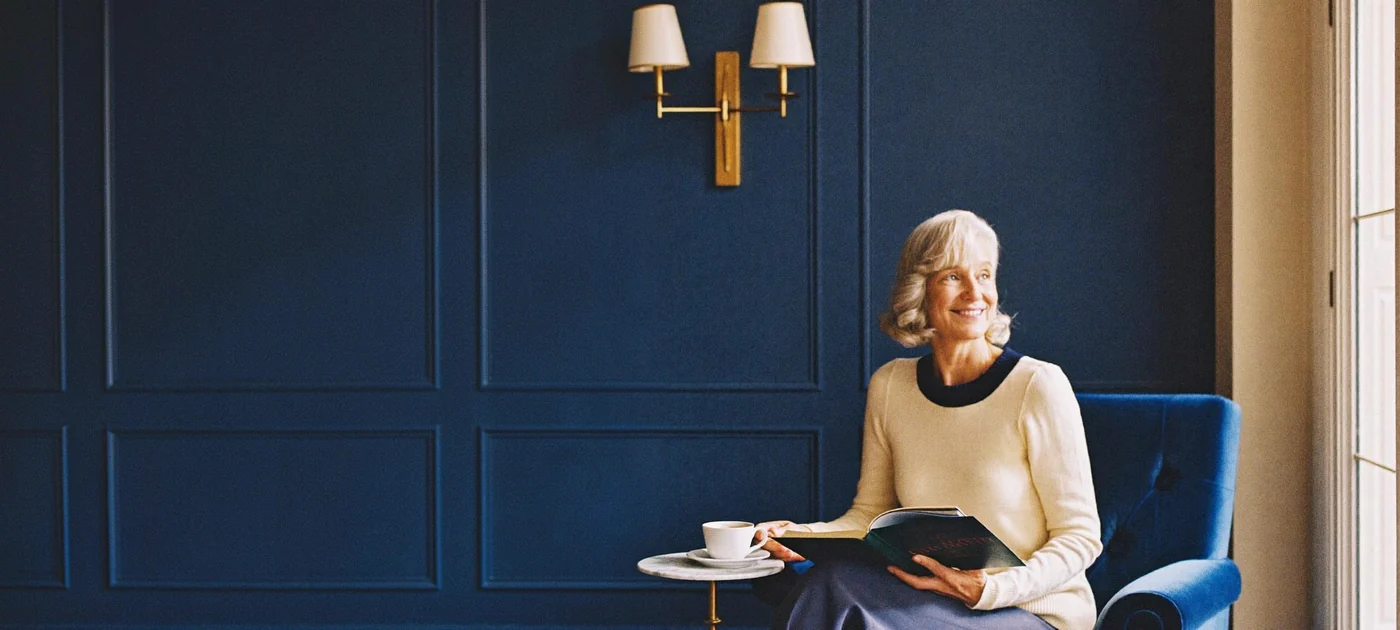
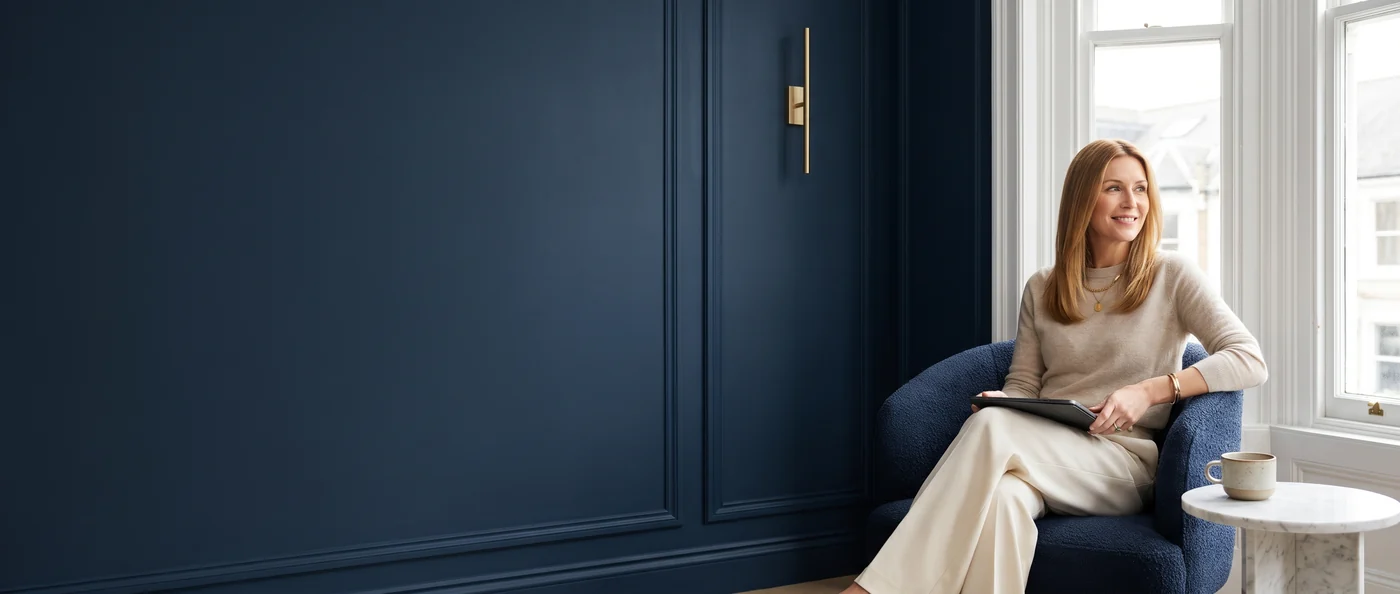
Blog hero: modern, crisp photograph; stronger header shade over bright heroes
Claude-Session: https://claude.ai/code/session_019KQCts2FkhKi3aSKtVh8HP

diff --git a/site/blog/index.html b/site/blog/index.html
@@ -12,7 +12,7 @@
   <link rel="preconnect" href="https://fonts.gstatic.com" crossorigin>
   <link href="https://fonts.googleapis.com/css2?family=Bodoni+Moda:ital,opsz,wght@0,6..96,400..700;1,6..96,400..600&family=Figtree:wght@400;500;600;700;800&display=swap" rel="stylesheet">
   <link rel="preload" as="image" href="/assets/img/gen/blog-hero-2400.webp" media="(min-width: 768px)">
-  <link rel="preload" as="image" href="/assets/img/gen/blog-hero-mobile-1070.webp" media="(max-width: 767px)">
+  <link rel="preload" as="image" href="/assets/img/gen/blog-hero-mobile-1300.webp" media="(max-width: 767px)">
   <link rel="stylesheet" href="/assets/css/styles.css">
 </head>
 <body id="top">
@@ -83,8 +83,8 @@
     <!-- ============ HERO ============ -->
     <section class="hero hero--page" aria-labelledby="hero-title">
       <picture class="hero-media">
-        <source media="(max-width: 767px)" srcset="/assets/img/gen/blog-hero-mobile-900.webp 900w, /assets/img/gen/blog-hero-mobile-1070.webp 1070w" sizes="100vw">
-        <img src="/assets/img/gen/blog-hero-2400.webp" srcset="/assets/img/gen/blog-hero-1400.webp 1400w, /assets/img/gen/blog-hero-2400.webp 2400w" sizes="100vw" alt="A woman reading by a window with a cup of coffee" width="2400" height="1080" fetchpriority="high">
+        <source media="(max-width: 767px)" srcset="/assets/img/gen/blog-hero-mobile-900.webp 900w, /assets/img/gen/blog-hero-mobile-1300.webp 1300w" sizes="100vw">
+        <img src="/assets/img/gen/blog-hero-2400.webp" srcset="/assets/img/gen/blog-hero-1400.webp 1400w, /assets/img/gen/blog-hero-2400.webp 2400w" sizes="100vw" alt="A woman with a tablet and coffee smiling by a window" width="2400" height="1018" fetchpriority="high">
       </picture>
       <div class="hero-content">
         <h1 id="hero-title" class="hero-title">Blog</h1>

diff --git a/pages/blog.html b/pages/blog.html
@@ -4,13 +4,13 @@ title: Blog | Dr Costantino Davide, Plastic Surgeon in London and Trieste
 description: Articles and advice from Dr Costantino Davide on face, breast and body surgery, aesthetic medicine and recovery.
 nav: blog
 preload-desktop: /assets/img/gen/blog-hero-2400.webp
-preload-mobile: /assets/img/gen/blog-hero-mobile-1070.webp
+preload-mobile: /assets/img/gen/blog-hero-mobile-1300.webp
 -->
     <!-- ============ HERO ============ -->
     <section class="hero hero--page" aria-labelledby="hero-title">
       <picture class="hero-media">
-        <source media="(max-width: 767px)" srcset="/assets/img/gen/blog-hero-mobile-900.webp 900w, /assets/img/gen/blog-hero-mobile-1070.webp 1070w" sizes="100vw">
-        <img src="/assets/img/gen/blog-hero-2400.webp" srcset="/assets/img/gen/blog-hero-1400.webp 1400w, /assets/img/gen/blog-hero-2400.webp 2400w" sizes="100vw" alt="A woman reading by a window with a cup of coffee" width="2400" height="1080" fetchpriority="high">
+        <source media="(max-width: 767px)" srcset="/assets/img/gen/blog-hero-mobile-900.webp 900w, /assets/img/gen/blog-hero-mobile-1300.webp 1300w" sizes="100vw">
+        <img src="/assets/img/gen/blog-hero-2400.webp" srcset="/assets/img/gen/blog-hero-1400.webp 1400w, /assets/img/gen/blog-hero-2400.webp 2400w" sizes="100vw" alt="A woman with a tablet and coffee smiling by a window" width="2400" height="1018" fetchpriority="high">
       </picture>
       <div class="hero-content">
         <h1 id="hero-title" class="hero-title">Blog</h1>

diff --git a/site/assets/css/styles.css b/site/assets/css/styles.css
@@ -183,7 +183,7 @@ button { font: inherit; color: inherit; cursor: pointer; }
 }
 .site-header::before {
   content: ""; position: absolute; inset: 0;
-  background: linear-gradient(180deg, rgba(14, 28, 46, .55), rgba(14, 28, 46, 0));
+  background: linear-gradient(180deg, rgba(14, 28, 46, .75) 0%, rgba(14, 28, 46, .35) 60%, rgba(14, 28, 46, 0) 100%);
   pointer-events: none;
   transition: opacity .4s;
 }
